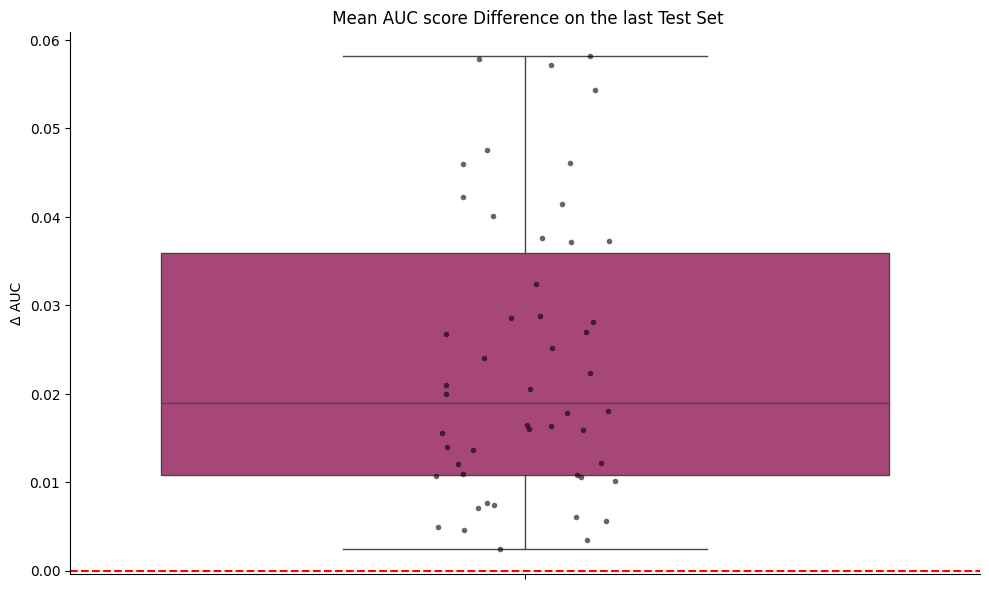
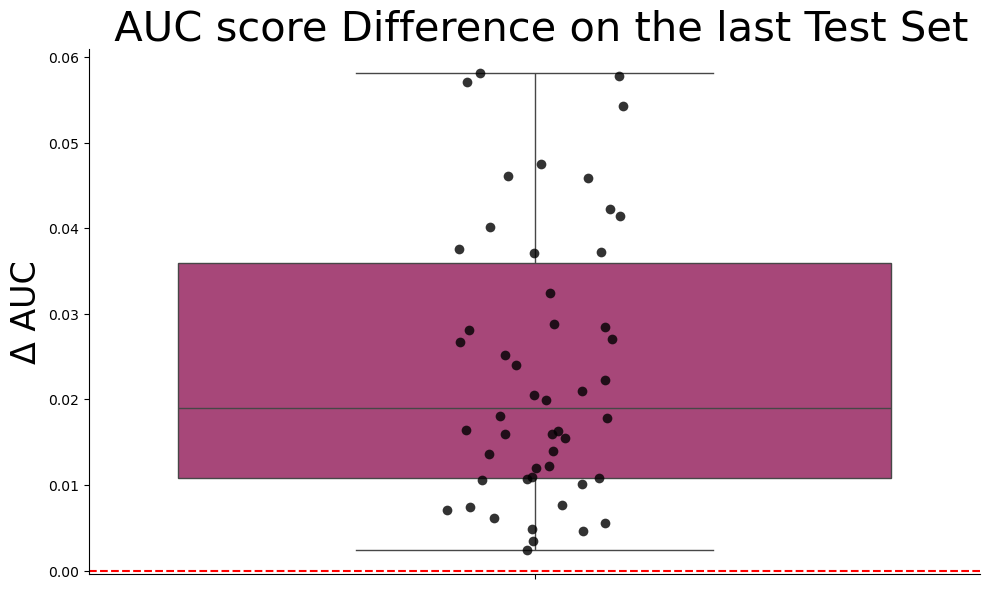
ch4 report done

diff --git a/report/src/chapters/ch4.tex b/report/src/chapters/ch4.tex
@@ -35,16 +35,16 @@ This method is based on the idea of \textbf{Data Augmentation}. Instead of using
 \begin{algorithm}[H]
     
         \begin{algorithmic}[1]
-            \STATE \textbf{Input:} $Data_{\text{train}}$, $Size$, $N$, $\varepsilon$.\\[0.5em]
+            \STATE \textbf{Input:} $Data_{\text{train}}$, $Size$, $N$, $\varepsilon$.\\
          
-            \State $Data_{\%}$ \leftarrow $random subset of N\% of Data_{train}$\\[0.5em]
-                \textbf{For} $x_i$ in Data_{\%}\\[0.5em]
+            \State $Data_{\%}$ \leftarrow $random subset of N\% of Data_{train}$\\
+                \textbf{For} $x_i$ in Data_{\%}\\
                     \State \phantom{mm} $x_i' \leftarrow 
                     \begin{cases}
                         X_i + \varepsilon & \text{with probability } 0.5 \\
                         X_i - \varepsilon & \text{with probability } 0.5
-                    \end{cases}$\\[0.5em]
-                    \State \phantom{mm} $y_i' \leftarrow y_i$\\[0.5em]
+                    \end{cases}$\\
+                    \State \phantom{mm} $y_i' \leftarrow y_i$\\
                 \textbf{End For}\\
                 \State $Data_\text{aug}$ \leftarrow $Data_{train} \cup Data_{\%}$\\
                 \State $Data_\text{final}$ \leftarrow $Downsample(Data_\text{aug}, Size)$\\
@@ -99,7 +99,7 @@ The test sets are generated in the same way as the training set, but with the fo
 \end{itemize}
 Each model is evaluated on 11 distinct test sets, where each test set is generated with a varying percentage of shifted data points, representing different statistical mixtures.
 
-The models' performance is simulated and assessed across 50 instances of 11 distinct statistical mixtures, ensuring a sufficient number of trials to rigorously validate significance using two samples Student's t-Test.
+The models' performance is simulated and assessed across 50 instances of 11 distinct statistical mixtures, ensuring a sufficient number of trials to rigorously validate significance using Student's t-Test.
 
 \subsubsection{Applying R.A.W. to Gradient Boosting Classifier}
 
@@ -158,6 +158,119 @@ Two instances of the same model are trained with and without the Random Augmenta
 
 \subsubsection{\textbf{Classification Task}}
 
+
+Since the R.A.W. method is a stochastic process, we conducted simulations across 50 different instances of 11 distinct statistical mixtures, the boxplot below shows the AUC scores of the baseline and augmented models averaged across all shifts.
+
+\begin{figure}[H]
+    \centering
+    \includegraphics[width=0.8\textwidth]{assets/MeanAUCscoreacross10.png} 
+    \caption{\textbf{Model Performance over Shifted Test Sets.}}
+\end{figure}
+
+To test the significance of the improvement, we conducted a Student's t-Test. The null hypothesis $\boldsymbol{H_0}$ is that the difference between the averaged AUC scores of model with and without R.A.W. is zero. The alternative hypothesis $\boldsymbol{H_1}$ is that this difference is not zero. The results of the t-Test are shown in the table below:
+
+\begin{table}
+    \centering
+    
+    \begin{tabular}{lcccc}
+        \toprule
+        & $\Delta_{AUC}$ & t-stat & p-value & 95\% CI \\
+        \midrule
+        $\Delta_{\overline{\text{AUC}}}$ & 0.0083 & 8.75  & $1.39 \times 10^{-11}$ & [0.006, 0.010] \\
+        \bottomrule
+    \end{tabular}
+\end{table}
+
+Although the improvement is relatively small, the t-Test results show that the improvement is statistically significant.
+
+\begin{figure}[H]
+    \centering
+    \includegraphics[width=0.8\textwidth]{assets/diffAUC10.png} 
+    \caption{\textbf{50 AUC score differences between the baseline and augmented models.}Note that the difference is computed on the average AUC score across 11 test sets.}
+\end{figure}
+
+
+During the experiment, we also observed that the improvement in the model's performance is more pronounced when evaluated on the most shifted test set, i.e. the statistical mixture which does not include any datapoints from the non-shifted dataset:
+\begin{figure}[H]
+    \centering
+    \includegraphics[width=0.8\textwidth]{assets/MeanAUCscoreLAST.png} 
+    \caption{\textbf{Model Performances on the Most Shifted Test Set.}}
+
+A second t-Test was conducted on the differences in AUC scores in the 50 instances of this last test set:
+
+
+\begin{table}
+    \centering
+    
+    \begin{tabular}{lcccc}
+        \toprule
+        & $\Delta_{AUC}$ & t-stat & p-value & 95\% CI \\
+        \midrule
+        $\Delta_{\text{AUC}_{\text{last}}}$ & 0.0235 & 10.59 & $2.86 \times 10^{-14}$ & [0.019, 0.028] \\
+        \bottomrule
+    \end{tabular}
+\end{table}
+
+The results highlight an increased improvement in the augmented model's performance when evaluated on the most shifted (and thus difficult) test set. 
+
+\begin{figure}[H]
+    \centering
+    \includegraphics[width=0.8\textwidth]{assets/meandiffLAST.png} 
+    \caption{\textbf{50 AUC score differences between the baseline and augmented models.}Note that the difference is computed on the AUC score of the last test set.}
+
+\end
+
+
+
+Lastly, we ran other 50 iterations of the experiment, this time we defined the covariance matrix used in the generation of the shifted sets as:
+
+\begin{equation}
+    $ [\boldsymbol{\Sigma}_{\text{shift}}]_{i,j} \sim \mathcal{U}_{[-0.75,0.75]} $ for $ i, j = 1, 2, 3 $
+\end{equation}
+
+Effectively increasing the range of the Uniform distribution used to generate the covariance matrix. The results of this experiment are shown in the figure below:
+
+\begin{figure}[H]
+    \centering
+    \begin{subfigure}{.45\textwidth}
+        \centering
+        \includegraphics[width=\linewidth]{assets/1_075.png}
+       
+    \end{subfigure}
+    \begin{subfigure}{.45\textwidth}
+        \centering
+        \includegraphics[width=\linewidth]{assets/2_075.png}
+       
+    \end{subfigure}
+    \begin{subfigure}{.45\textwidth}
+        \centering
+        \includegraphics[width=\linewidth]{assets/3_075.png}
+        
+    \end{subfigure}
+    \begin{subfigure}{.45\textwidth}
+        \centering
+        \includegraphics[width=\linewidth]{assets/4_075.png}
+        
+    \end{subfigure}
+    \caption{\textbf{Model Performance with Increased Covariance Matrix shift.} Results when increasing the range of the uniform distribution used to generate the covariance matrix of shifted test sets. Note that the quantities of the y-axis are the same as the ones in the last experiment.}
+\end{figure}
+
+
+The results show that the improvement in the model's performance is more pronounced when the range of values in the covariance matrix is allowed to be large.
+We conducted the same t-Tests as before, and the results are shown in the table below:
+
+\begin{table}
+    \centering
+    \small
+    \begin{tabular}{lcccc}
+        \toprule
+        & $\Delta_{AUC}$ & t-stat & p-value & 95\% CI \\
+        \midrule
+        $\Delta_{\overline{\text{AUC}}}$ & 0.0135 & 9.2261  & $2.71 \times 10^{-12}$ & [0.011, 0.016] \\
+        $\Delta_{\text{AUC}_{\text{last}}}$ & 0.0358 & 10.21 & $1.01 \times 10^{-13}$ & [0.029, 0.043] \\
+        \bottomrule
+    \end{tabular}
+\end{table}
 
 
 

diff --git a/slides/chapters/ch4.tex b/slides/chapters/ch4.tex
@@ -73,7 +73,7 @@
                 \item $\boldsymbol{H_1}$: $\Delta_{AUC} = AUC_{\text{R.A.W.}} - AUC_{\text{base}} \neq 0$ \\
                 
                 
-                \item \textbf{Test:} Two samples t-test on 50 independent $\Delta_{AUC}$.
+                \item \textbf{Test:} Student's t-Test on 50 independent $\Delta_{AUC}$.
             \end{itemize}
             
             
